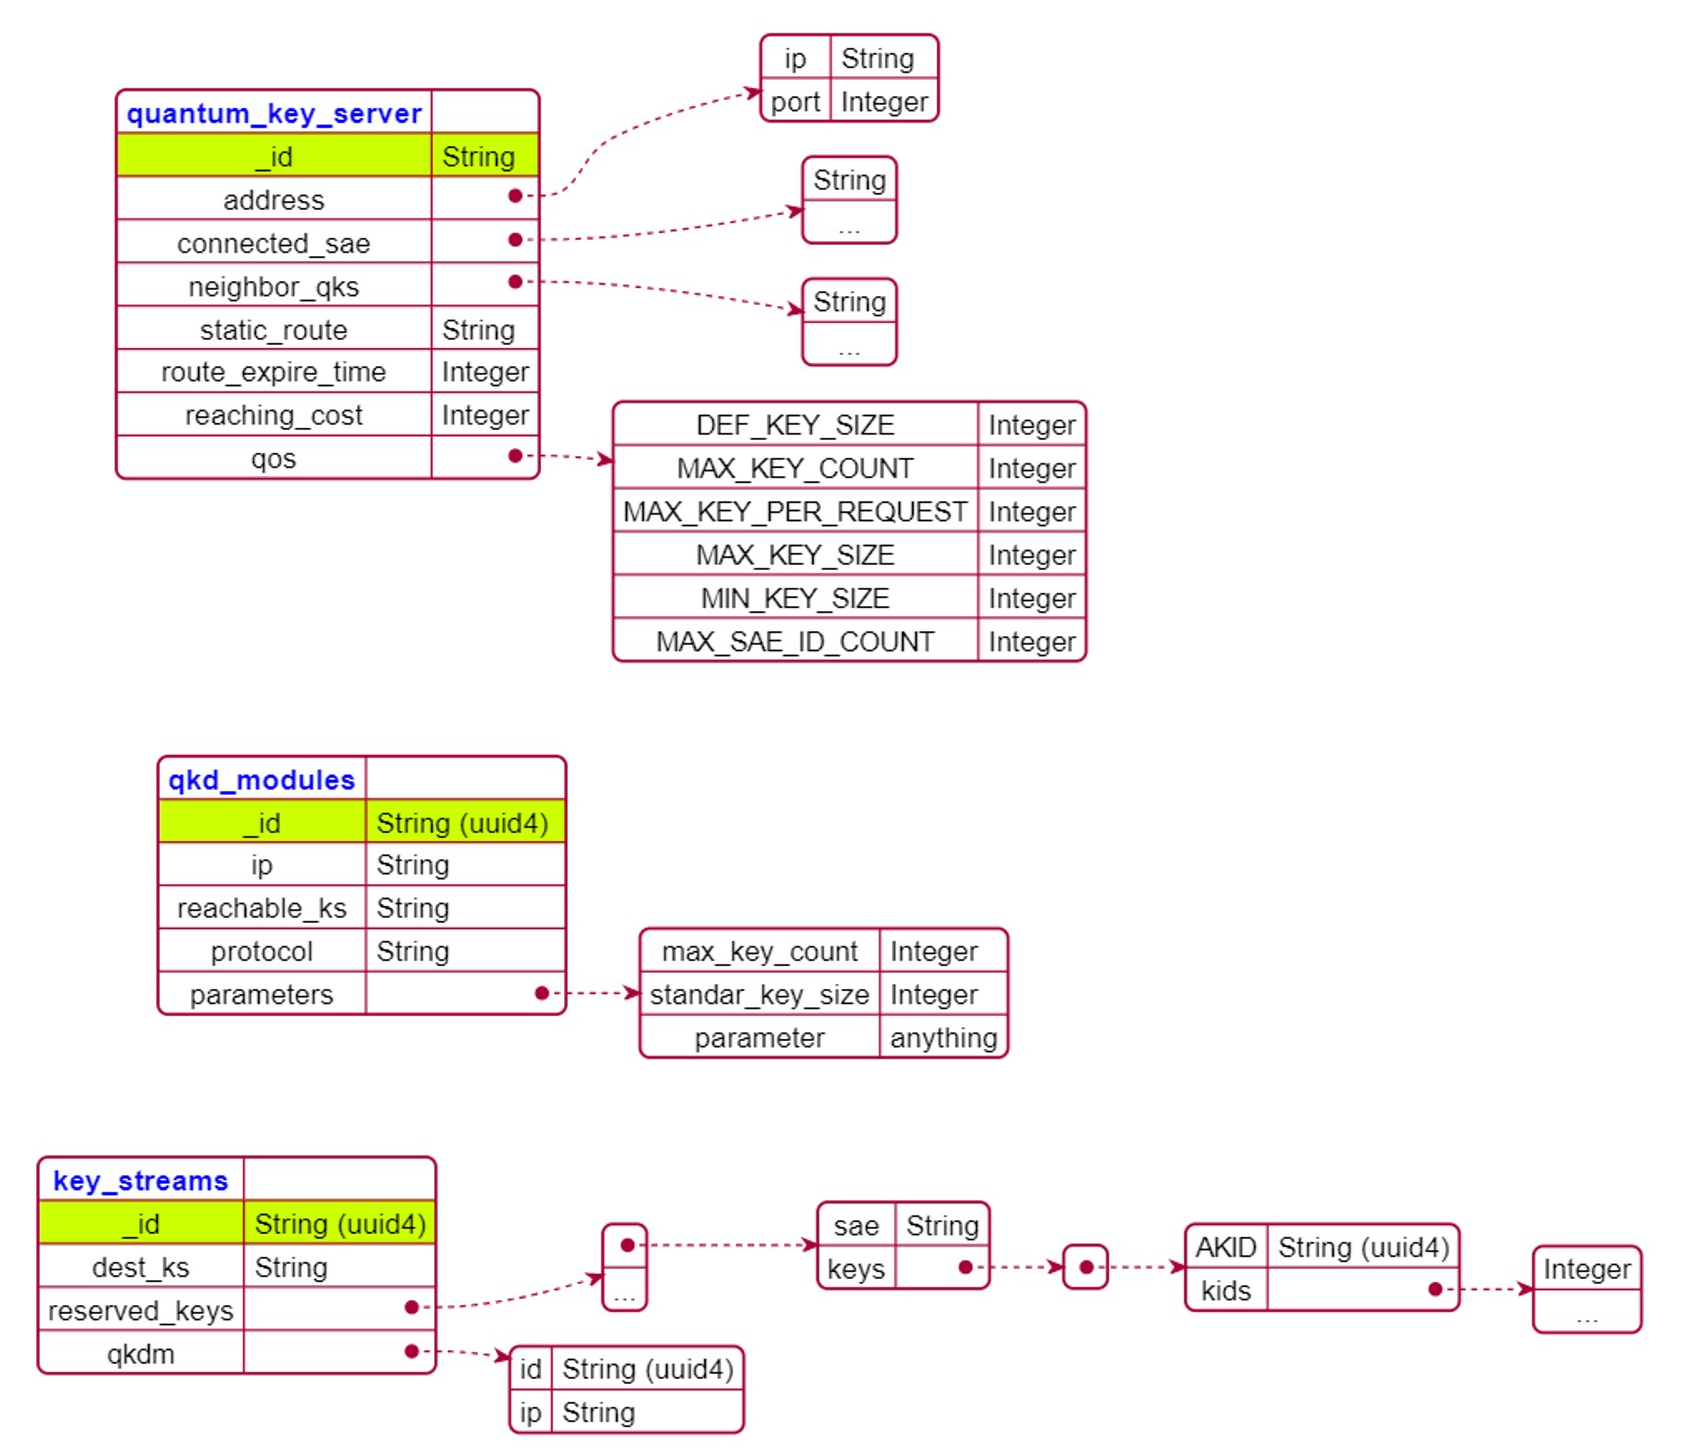
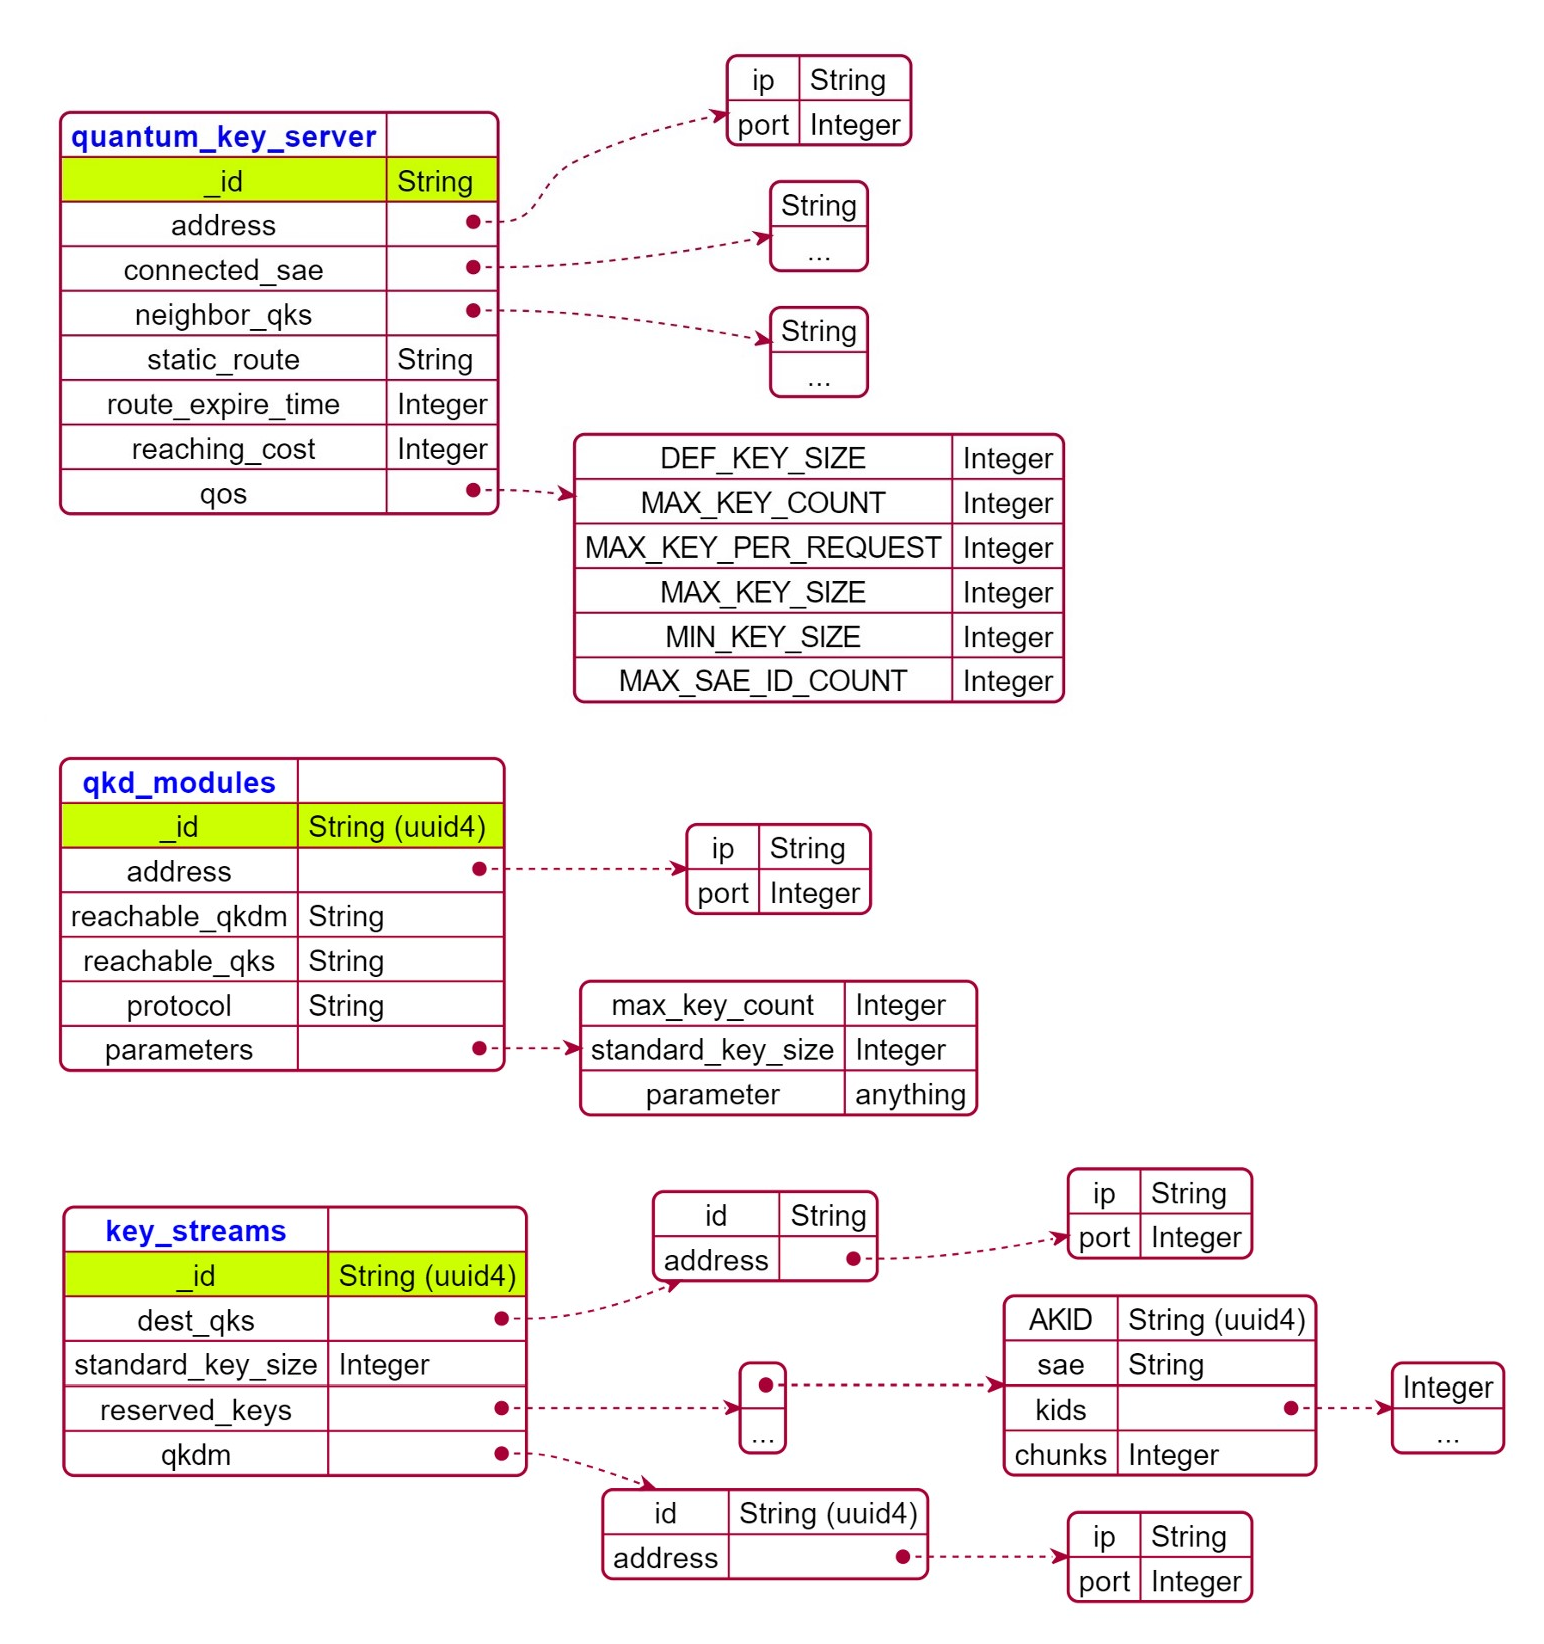
db model images updated accordingly to text

diff --git a/docs/DB_model.md b/docs/DB_model.md
@@ -119,7 +119,7 @@
   	"SAE ID" : "String", 
 	"type " : "[static/dinamic]",
 	"next hop id" : "String", 
-	"next hop address" : "String",
+	"next hop address" : {"ip" :"String", "port" : "Integer"},
 	"cost" : "Integer" ,
 	"length" : "Integer" 
 }
